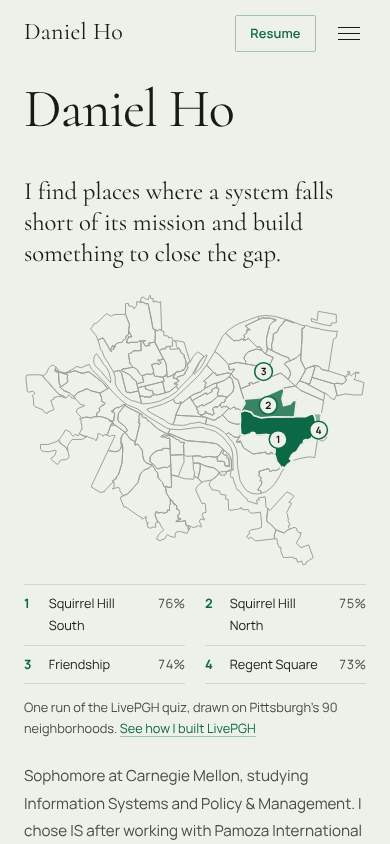
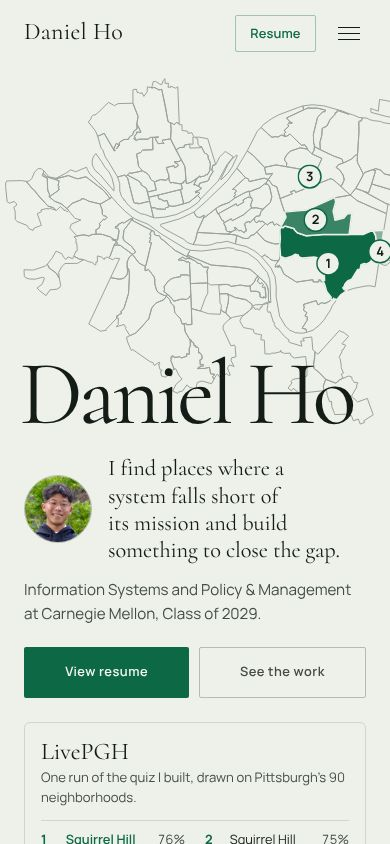
Screen-reader fix for the screen tour; REVIEW.md second pass; OPUS-TASKS.md hand-off prompts
- Only the tour screen on show is exposed to screen readers
- REVIEW.md: second-pass commits, settled questions, refreshed after screenshots
- OPUS-TASKS.md: ready-to-paste prompts for the larger jobs that are left
  (delete both files and review/ before merging)

Claude-Session: https://claude.ai/code/session_01TiCCmG51YjzYmZAWajzTAW

diff --git a/static/script.js b/static/script.js
@@ -424,7 +424,7 @@ function buildFeature(slug, p) {
         <div class="frame frame--browser proj-feature-media">
           <div class="frame-bar" aria-hidden="true"><span></span></div>
           <div class="tour-stage">
-            ${tour.map((t, i) => `<img ${i === 0 ? `src="${t.src}"` : `data-src="${t.src}"`} alt="${(t.alt || '').replace(/"/g, '&quot;')}" class="${i === 0 ? 'on' : ''}" ${i === 0 ? 'loading="lazy"' : ''} decoding="async">`).join('')}
+            ${tour.map((t, i) => `<img ${i === 0 ? `src="${t.src}"` : `data-src="${t.src}"`} alt="${(t.alt || '').replace(/"/g, '&quot;')}" class="${i === 0 ? 'on' : ''}" ${i === 0 ? 'loading="lazy"' : 'aria-hidden="true"'} decoding="async">`).join('')}
           </div>
         </div>
         ${tour.length > 1 ? `
@@ -471,6 +471,8 @@ document.addEventListener('click', e => {
   tour.querySelectorAll('.tour-stage img').forEach((img, k) => {
     if (img.dataset.src) { img.src = img.dataset.src; img.removeAttribute('data-src'); }
     img.classList.toggle('on', k === i);
+    /* Only the screen on show is announced to screen readers. */
+    if (k === i) img.removeAttribute('aria-hidden'); else img.setAttribute('aria-hidden', 'true');
   });
   tour.querySelectorAll('.tour-tab').forEach((t, k) => t.setAttribute('aria-selected', k === i));
   const cap = tour.querySelector('.tour-cap');

diff --git a/OPUS-TASKS.md b/OPUS-TASKS.md
@@ -1,0 +1,136 @@
+# Tasks to hand to another session
+
+Each task below is a prompt you can paste as-is. Paste the **Shared rules** block
+first, then one task. Delete this file before merging to `main`.
+
+## Shared rules (paste before any task)
+
+```
+You are working on my portfolio site. Repo: github.com/danielm-ho/portfolio.
+Work on the branch `fable-overnight` (create a new branch off it if I say so).
+Never push to main; I merge myself.
+
+Rules:
+- Vanilla HTML/CSS/JS on GitHub Pages. No framework, no libraries. The only build
+  step is `node tools/build-pages.mjs`; rerun it after any change to project pages.
+- All copy lives in static/content.js. script.js is behavior, style.css is styling.
+- Never invent facts, numbers, quotes, decisions or outcomes. If a fact is missing,
+  ask me, or leave a `TODO(Daniel)` comment in content.js and move on.
+- Any sentence you write yourself, list it for me in chat so I can check it.
+- No em-dashes in site copy. Plain, specific sentences: who did what, with what.
+- The site uses a light "paper" theme with tokens in :root of style.css. Use the
+  tokens; do not hard-code colors.
+- Accessibility cannot get worse: keyboard reachable, visible focus, alt text,
+  prefers-reduced-motion respected.
+- Verify before you commit: serve with `python3 -m http.server`, screenshot the
+  affected pages at 1440px and 390px wide, check the console for errors, and tab
+  through the page. One commit per task with a clear message.
+- Read REVIEW.md on the branch first. It lists what was done, open questions and
+  the TODOs.
+```
+
+## 1. Photo hero (needs one photo from me)
+
+```
+The homepage hero is a poster: my name set across the full width with a line map
+of Pittsburgh behind it (see #hero in index.html, the HERO block in style.css and
+renderHeroMap in script.js). I'm attaching a high-resolution photo of myself.
+Build a second version of the hero where the photo runs full bleed and my name is
+set across it, in the spirit of https://lchsu5.github.io/liz/. Keep my statement
+and both buttons, and drop the small round portrait, since the photo replaces it. Move the Pittsburgh map and its key
+into the top of the LivePGH block in Selected Work so it is not lost. Make the
+text legible over the photo at 1440px and 390px, and tell me where you cropped.
+Show me screenshots of both hero versions before committing.
+```
+
+## 2. Case-study text as tabs
+
+```
+Each project page shows Challenge / Approach / Key decision / Result as stacked
+blocks (renderProject in script.js, the `block()` helper). Turn them into a tab
+set: one row of tabs, one panel visible at a time, the decision tab first when a
+project has one. Use real tab semantics (role=tablist/tab/tabpanel, arrow keys),
+and show all panels stacked when printing or when JavaScript is off. Then reuse
+the same component on the homepage LivePGH block so a visitor can read the
+decision without leaving the homepage. Do not change any copy.
+```
+
+## 3. Get the homepage under 5,000px on desktop
+
+```
+The homepage is about 7,500px tall at 1440px wide. A comparable student site
+(https://lchsu5.github.io/liz/) is 3,400px. Propose a cut list to get mine under
+5,000px without deleting any fact that is not also in my resume PDF
+(static/files/resume.pdf): for example merging About into the hero and Contact,
+collapsing Honors into one line, and making Experience single-line rows with the
+organization's logo. Show me the list and wait for my OK before changing
+anything. Experience logos: only use files I give you.
+```
+
+## 4. Finish the decisions (interview me)
+
+```
+Open static/content.js and search for `TODO(Daniel)`. For each one, ask me the
+question it describes, all in one numbered list, each answerable in a sentence or
+two. Also ask, for LivePGH, Zab and SWE Life: "what went wrong or surprised you?"
+After I answer, write the decision and result blocks from my answers, keeping my
+phrasing where it works, and list every sentence you wrote. Do not write any
+decision I did not give you.
+```
+
+## 5. LivePGH you can actually use (needs the LivePGH code and permission)
+
+```
+I'm attaching the LivePGH source (or giving you access to its repo) and I have
+Pittsburgh Tomorrow's permission to show a demo. Build a small, self-contained
+version of the six-question quiz that runs inside the browser frame on my
+homepage's LivePGH block and returns ranked neighborhoods from a frozen snapshot
+of the real scores. Highlight the results on the existing hero map component
+(renderHeroMap in script.js, outlines in static/pgh-map.js). No network calls, no
+libraries, under 60KB added. If the scoring cannot be reproduced exactly from the
+source, stop and tell me rather than approximating.
+```
+
+## 6. Study Lab case study with a live page (needs one lab file)
+
+```
+Study Lab is a Claude skill I built that produces interactive study pages. It is
+not on GitHub right now, so do not call it open-source or link a repo. I'm
+attaching one generated lab page that I'm fine publishing. Add a Study Lab entry
+to PROJECTS in static/content.js, host the lab under /labs/ in the repo, and show
+it on the project page inside the browser frame using the same "Use the live
+site here" pattern as Zab (media.live in content.js). Interview me first for the
+challenge, the approach, one decision, and what did not work. I have told a
+previous session that some labs did not help me study; ask me about that, because
+it is the honest part of the story.
+```
+
+## 7. Smaller jobs, one prompt each
+
+```
+Regenerate the six project link-preview images (static/og/og-*.jpg) in the paper
+theme, following the pattern in tools/og-home.html: one HTML template that reads
+title, summary and lead image from static/content.js, screenshotted at 1200x630.
+```
+
+```
+Test the branch in Safari on iOS, Safari on macOS and Firefox. Check the project
+card transition falls back cleanly, the reel viewer opens and closes, the hero
+map responds to taps, and the live Zab site loads inside its frame. Fix what
+breaks and list what you could not test.
+```
+
+```
+Compare static/files/resume.pdf with the site. List every fact that differs
+between them (titles, dates, numbers, Pamoza wording, Ottoman Empire, Study Lab).
+Do not edit either; give me the list.
+```
+
+```
+Add a "Try the live site" button to the Zab card on the homepage that opens the
+real site in the existing viewer dialog (openViewer in script.js). The card is a
+single link today, so restructure it the way the LivePGH feature block was
+restructured (buildFeature in script.js). Then check whether the SWE Life game at
+academy.cs.cmu.edu can be embedded the same way; if the site refuses framing,
+leave the video and say so.
+```

diff --git a/REVIEW.md b/REVIEW.md
@@ -8,6 +8,29 @@ Everything here is on the branch `fable-overnight`. Nothing was pushed to `main`
 
 The list of copy I wrote is in the chat, as you asked, not here.
 
+`OPUS-TASKS.md` on this branch holds ready-to-paste prompts for the larger jobs
+that are left. Delete it before merging too.
+
+## Second pass, November 12 afternoon
+
+After you looked at the first version and sent https://lchsu5.github.io/liz/ as a
+reference, four more commits went in. The table further down is the overnight work.
+
+| Commit | What changed |
+|---|---|
+| `4a17792` | **Hero as a poster.** Your name spans the page, the Pittsburgh map is blown up behind it and runs off the edge, a portrait sits beside the statement. The map is now a working object: hover or tap any neighborhood for its name, and the four matches fill in order once on arrival. |
+| `9068b56` | **Things to click.** LivePGH has a four-screen tour inside its frame on the homepage and a "How it works" pipeline. The Zab page can load the real site inside its frame. The safety-score line left the homepage and appears once, on the LivePGH page, as your key decision. |
+| `88c5e2f` | **Length.** Skills is three lines, "Right now" is hidden, sections are tighter. Homepage is 7,537px on desktop and 9,786px on a phone. |
+| (this commit) | Screen-reader fix for the tour, this report, and `OPUS-TASKS.md`. |
+
+Settled since the first report: the 1M+ views belong to Ottoman Empire; the
+safety-score decision was yours; the paper theme stays.
+
+What that reference site does that yours still does not: it is about 3,400px
+long, and it opens on a full-bleed photograph. Both are in `OPUS-TASKS.md`
+(tasks 1 and 3), because the first needs a photo from you and the second needs
+you to approve what gets cut.
+
 ## What changed, one commit per idea
 
 Undo any single idea with `git revert <commit>`. The paper theme is last so it
@@ -54,7 +77,7 @@ In `static/content.js`, search for `TODO(Daniel)`. Each is a comment at the spot
 
 **Decisions (idea 1, unfinished)**
 
-1. **LivePGH.** Was "no safety score, no demographic matching" your call? If yes: one sentence on what leaving them out cost you, then delete the `labels: { decision: ... }` line so the block is headed "Key decision".
+1. **LivePGH.** The decision is marked as yours now. Still missing: one sentence on what leaving those out cost you, or a different decision if you think of a stronger one.
 2. **Zab.** One sentence: what did the content.js approach cost you, or what did you choose it over?
 3. **SWE Life.** What did you cut, or choose the harder path on? Two or three sentences in a `decision:` field.
 4. **Titanic.** Which model did you land on and what did you give up? The Result block also says nothing about what you found.
@@ -80,16 +103,12 @@ In `static/content.js`, search for `TODO(Daniel)`. Each is a comment at the spot
 Where your answers left room, the page has my best version. Here is a second one for each. Swap them in content.js.
 
 **Hero description** (`CONTENT.hero.desc`)
-- On the page: "Sophomore at Carnegie Mellon, studying Information Systems and Policy & Management. I chose IS after working with Pamoza International in Malawi, where I saw how much good accessible tools could do and how limited my technical skills still were."
-- Option B, puts the ask first: "Sophomore at Carnegie Mellon, studying Information Systems and Policy & Management. Looking for Summer 2027 internships in product, technology consulting, and civic or education tech."
+- On the page: "Information Systems and Policy & Management at Carnegie Mellon, Class of 2029."
+- Option B, puts the ask first: "Information Systems and Policy & Management at Carnegie Mellon. Looking for Summer 2027 internships in product, technology consulting, and civic or education tech."
 
 **About, first paragraph** (`CONTENT.about.bio[0]`)
 - On the page: "At Pamoza International in Malawi I built a simple Google Drive organization flow, and I wished I could have done much more. That work showed me how much good accessible tools could do, and how limited my technical skills still were. It is why I chose Information Systems."
 - Option B, your brief verbatim: "I chose Information Systems after doing nonprofit database work for Pamoza International in Malawi. That work showed me how much good accessible tools could do, and how limited my technical skills still were."
-
-**LivePGH pull statement label** (`PROJECTS.livepgh.pull.label` and `labels.decision`)
-- On the page: "What LivePGH won't do"
-- Option B, if the call was yours: "A decision I made"
 
 **Zab decision** (`PROJECTS['zab-hair-studio'].decision`)
 - On the page: "I built the site around a custom content.js file so the owner could edit it himself. Every card, price and photo is read from that one file, so he can change an offering without touching markup."
@@ -102,11 +121,11 @@ Where your answers left room, the page has my best version. Here is a second one
 ## Open questions
 
 1. **LivePGH count.** The copy says 156 places: every city neighborhood plus 67 suburbs, which implies 89. Your landing-page screenshot says "all 90", and the hero map caption says 90 because the city's boundary file has 90. I left 156 as written. Which is right?
-2. **1M+ views.** The hero and band section credit them to Ottoman Empire, as your brief does. The old card said "across both projects". Which is it?
+2. **1M+ views.** Settled: they are Ottoman Empire's.
 3. **Pamoza.** Your brief calls it "nonprofit database work", your resume a "centralized media workflow", and last night "a simple Google Drive organization flow". The site now uses the last one. Make sure the resume and site tell the same story.
 4. **SWE Life.** The site used to say "a feature on" the course website. I could verify that the gallery lists it, so it now says "listed in the project gallery". Change it back if the gallery is selective and "feature" is fair.
 5. **Music summary.** It said "60+ self-recorded arrangements". The body says the latest cover had 61 tracks, so I matched the body. If you have also made 60+ arrangements, say so and I got this wrong.
-6. **Paper theme.** Keep it, or revert `4c63f7a`? A middle option is to show the dark palette to visitors whose device is in dark mode; that is one CSS block.
+6. **Paper theme.** Settled: keep it.
 7. **MonoMuse.** Its GitHub Pages build (danielm-ho.github.io/67250_techproject_phaseb) is unstyled HTML, so I did not link it. Your call.
 8. **Experience lines.** You were going to pick the one fact per role. I picked. Check them.
 
